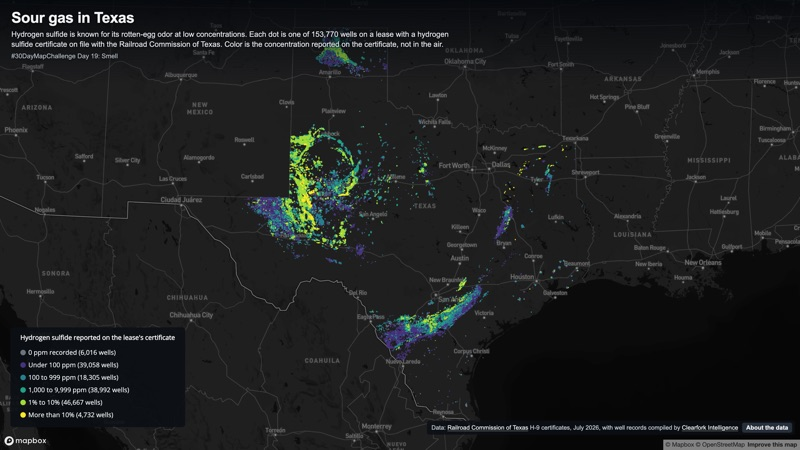
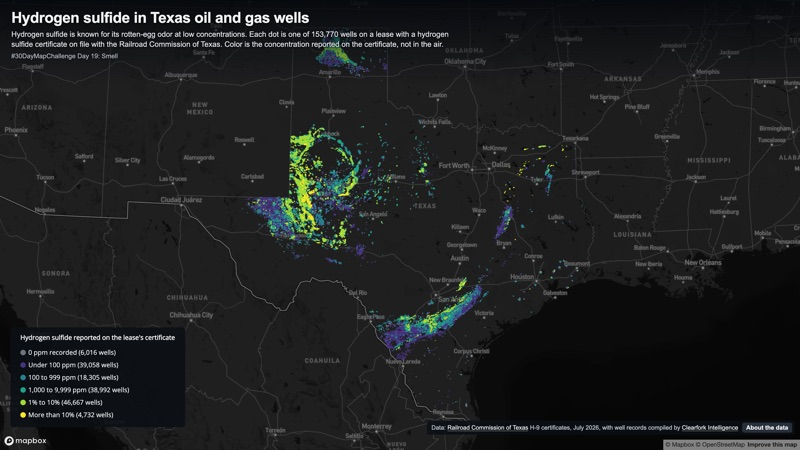
Day 19: retitle to Hydrogen sulfide in Texas oil and gas wells

Changed region(s): [[0.0, 0.0, 0.4062, 0.0622]]

diff --git a/docs/map-challenge-2026/maps/day19/index.html b/docs/map-challenge-2026/maps/day19/index.html
@@ -35,7 +35,7 @@
 <script src="lib/layers-control-2.0.0/layers-control.js"></script>
   <meta charset="utf-8"/>
   <meta name="viewport" content="width=device-width, initial-scale=1"/>
-  <title>Sour gas in Texas · #30DayMapChallenge Day 19</title>
+  <title>Hydrogen sulfide in Texas oil and gas wells · #30DayMapChallenge Day 19</title>
   <style>*{box-sizing:border-box}html,body{margin:0;width:100%;height:100%;overflow:hidden;background:#0b0f14;font-family:Arial,Helvetica,sans-serif}.html-widget{width:100%!important;height:100%!important}
 .title{position:absolute;top:18px;left:22px;z-index:5;color:#f1f3f5;pointer-events:none;text-shadow:0 1px 4px #000;max-width:min(880px,calc(100% - 60px))}
 .title h1{margin:0;font-size:30px;letter-spacing:-.5px}.title p{margin:6px 0 0;font-size:15px;line-height:1.35;color:#dfe4ea}.title p.tag{font-size:13px;color:#b4bcc6;margin-top:4px}
@@ -96,15 +96,15 @@
   <script>document.addEventListener('click',function(e){var d=document.getElementById('about');if(d&&d.open&&!d.contains(e.target))d.open=false;});
       document.addEventListener('keydown',function(e){var d=document.getElementById('about');if(e.key==='Escape'&&d&&d.open){d.open=false;d.querySelector('summary').focus();}});</script>
   <div class="title">
-    <h1>Sour gas in Texas</h1>
+    <h1>Hydrogen sulfide in Texas oil and gas wells</h1>
     <p>
       <span class="long">Hydrogen sulfide is known for its rotten-egg odor at low concentrations. Each dot is one of 153,770 wells on a lease with a hydrogen sulfide certificate on file with the Railroad Commission of Texas. Color is the concentration reported on the certificate, not in the air.</span>
       <span class="short">Wells on leases with a hydrogen sulfide certificate on file with the state, colored by the concentration reported on the certificate.</span>
     </p>
     <p class="tag">#30DayMapChallenge Day 19: Smell</p>
   </div>
-  <div id="htmlwidget-7f5b592be9417f78fac3" style="width:1600px;height:900px;" class="mapboxgl html-widget"></div>
-  <script type="application/json" data-for="htmlwidget-7f5b592be9417f78fac3">{"x":{"style":"mapbox://styles/mapbox/standard","center":[-99.59999999999999,31.3],"zoom":5.5,"bearing":0,"pitch":0,"projection":"globe","parallels":null,"access_token":"pk.eyJ1Ijoia3dhbGtlcnRjdSIsImEiOiJjbXZ6a3FnZzcwMGY3MzRvaDNwZDAzZjE1In0.3sxcPs3M7maeGtwkl8FZQQ","additional_params":{"config":{"basemap":{"lightPreset":"night","theme":"monochrome","showPointOfInterestLabels":false,"showTransitLabels":false,"showRoadLabels":false}},"minZoom":4,"maxZoom":15,"preserveDrawingBuffer":true,"fadeDuration":0,"attributionControl":{"customAttribution":"Hydrogen sulfide certificates: Railroad Commission of Texas, July 2026"},"elementId":"feature-map"},"sources":[{"id":"sour","type":"vector","url":"web/sour_wells.pmtiles"}],"layers":[{"id":"wells","type":"circle","source":"sour","source_layer":"wells","paint":{"circle-color":["match",["get","k"],1,"#6b7480",2,"#46327e",3,"#277f8e",4,"#1fa187",5,"#a0da39",6,"#fde725","#888888"],"circle-emissive-strength":1,"circle-opacity":["interpolate",["linear"],["zoom"],5,0.8,9,0.95],"circle-radius":["interpolate",["linear"],["zoom"],5,1.05,8,1.9,11,3.6,14,6.5],"circle-stroke-color":"#0b0f14","circle-stroke-width":["interpolate",["linear"],["zoom"],9,0,12,0.8],"circle-translate-anchor":"map"},"layout":{"circle-sort-key":["get","ppm"],"visibility":"visible"},"slot":null,"minzoom":null,"maxzoom":null,"popup":null,"tooltip":["concat","<b>",["get","lease"],"<\/b><br>",["get","kind"]," · ",["get","field"],"<br>Hydrogen sulfide concentration reported on the certificate: <b>",["get","ppm_text"],"<\/b>",["get","note"],"<br>Certificate approved or last amended in ",["get","year"]],"tooltip_style":null,"popup_style":null,"hover_options":{"circle_stroke_color":"#ffffff","circle_stroke_width":2},"before_id":null,"filter":null}],"legend_html":"<div id=\"leg\" class=\"mapboxgl-legend bottom-left\"><h2 class=\"mapgl-legend-title\">Hydrogen sulfide reported on the lease's certificate<\/h2><div class=\"legend-item\"><div class=\"legend-patch-container\" style=\"width:11px; height:11px;\"><span class=\"legend-color legend-shape-circle\" style=\"background-color:#6b7480; width: 11px; height: 11px; border-radius: 50%;\"><\/span><\/div><span class=\"legend-text\">0 ppm recorded  (6,016 wells)<\/span><\/div><div class=\"legend-item\"><div class=\"legend-patch-container\" style=\"width:11px; height:11px;\"><span class=\"legend-color legend-shape-circle\" style=\"background-color:#46327e; width: 11px; height: 11px; border-radius: 50%;\"><\/span><\/div><span class=\"legend-text\">Under 100 ppm  (39,058 wells)<\/span><\/div><div class=\"legend-item\"><div class=\"legend-patch-container\" style=\"width:11px; height:11px;\"><span class=\"legend-color legend-shape-circle\" style=\"background-color:#277f8e; width: 11px; height: 11px; border-radius: 50%;\"><\/span><\/div><span class=\"legend-text\">100 to 999 ppm  (18,305 wells)<\/span><\/div><div class=\"legend-item\"><div class=\"legend-patch-container\" style=\"width:11px; height:11px;\"><span class=\"legend-color legend-shape-circle\" style=\"background-color:#1fa187; width: 11px; height: 11px; border-radius: 50%;\"><\/span><\/div><span class=\"legend-text\">1,000 to 9,999 ppm  (38,992 wells)<\/span><\/div><div class=\"legend-item\"><div class=\"legend-patch-container\" style=\"width:11px; height:11px;\"><span class=\"legend-color legend-shape-circle\" style=\"background-color:#a0da39; width: 11px; height: 11px; border-radius: 50%;\"><\/span><\/div><span class=\"legend-text\">1% to 10%  (46,667 wells)<\/span><\/div><div class=\"legend-item\"><div class=\"legend-patch-container\" style=\"width:11px; height:11px;\"><span class=\"legend-color legend-shape-circle\" style=\"background-color:#fde725; width: 11px; height: 11px; border-radius: 50%;\"><\/span><\/div><span class=\"legend-text\">More than 10%  (4,732 wells)<\/span><\/div><\/div>","legend_css":"\n    @import url('https://fonts.googleapis.com/css2?family=Open+Sans&display=swap');\n    #leg h2 {\n      font-size: 14px;\n      font-family: 'Open Sans', -apple-system, BlinkMacSystemFont, 'Segoe UI', Roboto, 'Helvetica Neue', Arial, sans-serif;\n      line-height: 20px;\n      margin-bottom: 10px;\n      margin-top: 0px;\n      white-space: nowrap;\n      max-width: 100%;\n      overflow: hidden;\n      text-overflow: ellipsis;\n    }\n    #leg {\n      position: absolute;\n      border-radius: 10px;\n      margin: 10px;\n      width: 300;\n      background-color: #ffffff80;\n      padding: 10px 20px;\n      z-index: 1002;\n    }\n    #leg.top-left {\n      top: 10px;\n      left: 10px;\n    }\n    #leg.bottom-left {\n      bottom: 10px;\n      left: 10px;\n    }\n    #leg.top-right {\n      top: 10px;\n      right: 10px;\n    }\n    #leg.bottom-right {\n      bottom: 10px;\n      right: 10px;\n    }\n    #leg .legend-item {\n      display: flex;\n      align-items: center;\n      margin-bottom: 5px;\n      font-family: 'Open Sans', -apple-system, BlinkMacSystemFont, 'Segoe UI', Roboto, 'Helvetica Neue', Arial, sans-serif;\n      white-space: nowrap;\n      max-width: 100%;\n      overflow: hidden;\n    }\n    #leg .legend-patch-container {\n      display: flex;\n      justify-content: center;\n      align-items: center;\n      margin-right: 5px;\n    }\n    #leg .legend-color {\n      display: inline-block;\n      flex-shrink: 0;\n    }\n    #leg .legend-shape-line {\n      align-self: center;\n      image-rendering: pixelated;\n      image-rendering: -moz-crisp-edges;\n      image-rendering: crisp-edges;\n      transform: translateZ(0);\n      -webkit-transform: translateZ(0);\n    }\n    #leg .legend-shape-hexagon {\n      display: block;\n    }\n    #leg .legend-shape-custom {\n      display: block;\n    }\n    #leg .legend-text {\n      flex-grow: 1;\n      text-overflow: ellipsis;\n      overflow: hidden;\n    }\n  \n#leg {\n  background-color: rgba(11, 15, 20, 0.90) !important;\n  border: 0px solid gray !important;\n  border-radius: 6px !important;\n}\n#leg h2 {\n  color: #ffffff !important;\n  font-size: 13px !important;\n}\n#leg .legend-text {\n  color: #f1f3f5 !important;\n  font-size: 13px !important;\n}\n#leg .legend-labels span {\n  color: #f1f3f5 !important;\n  font-size: 13px !important;\n}\n#leg .mapgl-legend-collapse-btn {\n  color: #f1f3f5 !important;\n}\n"},"evals":[],"jsHooks":[]}</script>
+  <div id="htmlwidget-46c524e923b5a9e187c8" style="width:1600px;height:900px;" class="mapboxgl html-widget"></div>
+  <script type="application/json" data-for="htmlwidget-46c524e923b5a9e187c8">{"x":{"style":"mapbox://styles/mapbox/standard","center":[-99.59999999999999,31.3],"zoom":5.5,"bearing":0,"pitch":0,"projection":"globe","parallels":null,"access_token":"pk.eyJ1Ijoia3dhbGtlcnRjdSIsImEiOiJjbXZ6a3FnZzcwMGY3MzRvaDNwZDAzZjE1In0.3sxcPs3M7maeGtwkl8FZQQ","additional_params":{"config":{"basemap":{"lightPreset":"night","theme":"monochrome","showPointOfInterestLabels":false,"showTransitLabels":false,"showRoadLabels":false}},"minZoom":4,"maxZoom":15,"preserveDrawingBuffer":true,"fadeDuration":0,"attributionControl":{"customAttribution":"Hydrogen sulfide certificates: Railroad Commission of Texas, July 2026"},"elementId":"feature-map"},"sources":[{"id":"sour","type":"vector","url":"web/sour_wells.pmtiles"}],"layers":[{"id":"wells","type":"circle","source":"sour","source_layer":"wells","paint":{"circle-color":["match",["get","k"],1,"#6b7480",2,"#46327e",3,"#277f8e",4,"#1fa187",5,"#a0da39",6,"#fde725","#888888"],"circle-emissive-strength":1,"circle-opacity":["interpolate",["linear"],["zoom"],5,0.8,9,0.95],"circle-radius":["interpolate",["linear"],["zoom"],5,1.05,8,1.9,11,3.6,14,6.5],"circle-stroke-color":"#0b0f14","circle-stroke-width":["interpolate",["linear"],["zoom"],9,0,12,0.8],"circle-translate-anchor":"map"},"layout":{"circle-sort-key":["get","ppm"],"visibility":"visible"},"slot":null,"minzoom":null,"maxzoom":null,"popup":null,"tooltip":["concat","<b>",["get","lease"],"<\/b><br>",["get","kind"]," · ",["get","field"],"<br>Hydrogen sulfide concentration reported on the certificate: <b>",["get","ppm_text"],"<\/b>",["get","note"],"<br>Certificate approved or last amended in ",["get","year"]],"tooltip_style":null,"popup_style":null,"hover_options":{"circle_stroke_color":"#ffffff","circle_stroke_width":2},"before_id":null,"filter":null}],"legend_html":"<div id=\"leg\" class=\"mapboxgl-legend bottom-left\"><h2 class=\"mapgl-legend-title\">Hydrogen sulfide reported on the lease's certificate<\/h2><div class=\"legend-item\"><div class=\"legend-patch-container\" style=\"width:11px; height:11px;\"><span class=\"legend-color legend-shape-circle\" style=\"background-color:#6b7480; width: 11px; height: 11px; border-radius: 50%;\"><\/span><\/div><span class=\"legend-text\">0 ppm recorded  (6,016 wells)<\/span><\/div><div class=\"legend-item\"><div class=\"legend-patch-container\" style=\"width:11px; height:11px;\"><span class=\"legend-color legend-shape-circle\" style=\"background-color:#46327e; width: 11px; height: 11px; border-radius: 50%;\"><\/span><\/div><span class=\"legend-text\">Under 100 ppm  (39,058 wells)<\/span><\/div><div class=\"legend-item\"><div class=\"legend-patch-container\" style=\"width:11px; height:11px;\"><span class=\"legend-color legend-shape-circle\" style=\"background-color:#277f8e; width: 11px; height: 11px; border-radius: 50%;\"><\/span><\/div><span class=\"legend-text\">100 to 999 ppm  (18,305 wells)<\/span><\/div><div class=\"legend-item\"><div class=\"legend-patch-container\" style=\"width:11px; height:11px;\"><span class=\"legend-color legend-shape-circle\" style=\"background-color:#1fa187; width: 11px; height: 11px; border-radius: 50%;\"><\/span><\/div><span class=\"legend-text\">1,000 to 9,999 ppm  (38,992 wells)<\/span><\/div><div class=\"legend-item\"><div class=\"legend-patch-container\" style=\"width:11px; height:11px;\"><span class=\"legend-color legend-shape-circle\" style=\"background-color:#a0da39; width: 11px; height: 11px; border-radius: 50%;\"><\/span><\/div><span class=\"legend-text\">1% to 10%  (46,667 wells)<\/span><\/div><div class=\"legend-item\"><div class=\"legend-patch-container\" style=\"width:11px; height:11px;\"><span class=\"legend-color legend-shape-circle\" style=\"background-color:#fde725; width: 11px; height: 11px; border-radius: 50%;\"><\/span><\/div><span class=\"legend-text\">More than 10%  (4,732 wells)<\/span><\/div><\/div>","legend_css":"\n    @import url('https://fonts.googleapis.com/css2?family=Open+Sans&display=swap');\n    #leg h2 {\n      font-size: 14px;\n      font-family: 'Open Sans', -apple-system, BlinkMacSystemFont, 'Segoe UI', Roboto, 'Helvetica Neue', Arial, sans-serif;\n      line-height: 20px;\n      margin-bottom: 10px;\n      margin-top: 0px;\n      white-space: nowrap;\n      max-width: 100%;\n      overflow: hidden;\n      text-overflow: ellipsis;\n    }\n    #leg {\n      position: absolute;\n      border-radius: 10px;\n      margin: 10px;\n      width: 300;\n      background-color: #ffffff80;\n      padding: 10px 20px;\n      z-index: 1002;\n    }\n    #leg.top-left {\n      top: 10px;\n      left: 10px;\n    }\n    #leg.bottom-left {\n      bottom: 10px;\n      left: 10px;\n    }\n    #leg.top-right {\n      top: 10px;\n      right: 10px;\n    }\n    #leg.bottom-right {\n      bottom: 10px;\n      right: 10px;\n    }\n    #leg .legend-item {\n      display: flex;\n      align-items: center;\n      margin-bottom: 5px;\n      font-family: 'Open Sans', -apple-system, BlinkMacSystemFont, 'Segoe UI', Roboto, 'Helvetica Neue', Arial, sans-serif;\n      white-space: nowrap;\n      max-width: 100%;\n      overflow: hidden;\n    }\n    #leg .legend-patch-container {\n      display: flex;\n      justify-content: center;\n      align-items: center;\n      margin-right: 5px;\n    }\n    #leg .legend-color {\n      display: inline-block;\n      flex-shrink: 0;\n    }\n    #leg .legend-shape-line {\n      align-self: center;\n      image-rendering: pixelated;\n      image-rendering: -moz-crisp-edges;\n      image-rendering: crisp-edges;\n      transform: translateZ(0);\n      -webkit-transform: translateZ(0);\n    }\n    #leg .legend-shape-hexagon {\n      display: block;\n    }\n    #leg .legend-shape-custom {\n      display: block;\n    }\n    #leg .legend-text {\n      flex-grow: 1;\n      text-overflow: ellipsis;\n      overflow: hidden;\n    }\n  \n#leg {\n  background-color: rgba(11, 15, 20, 0.90) !important;\n  border: 0px solid gray !important;\n  border-radius: 6px !important;\n}\n#leg h2 {\n  color: #ffffff !important;\n  font-size: 13px !important;\n}\n#leg .legend-text {\n  color: #f1f3f5 !important;\n  font-size: 13px !important;\n}\n#leg .legend-labels span {\n  color: #f1f3f5 !important;\n  font-size: 13px !important;\n}\n#leg .mapgl-legend-collapse-btn {\n  color: #f1f3f5 !important;\n}\n"},"evals":[],"jsHooks":[]}</script>
 </div>
 </body>
 </html>

diff --git a/map-challenge-2026/maps/day19/index.html b/map-challenge-2026/maps/day19/index.html
@@ -35,7 +35,7 @@
 <script src="lib/layers-control-2.0.0/layers-control.js"></script>
   <meta charset="utf-8"/>
   <meta name="viewport" content="width=device-width, initial-scale=1"/>
-  <title>Sour gas in Texas · #30DayMapChallenge Day 19</title>
+  <title>Hydrogen sulfide in Texas oil and gas wells · #30DayMapChallenge Day 19</title>
   <style>*{box-sizing:border-box}html,body{margin:0;width:100%;height:100%;overflow:hidden;background:#0b0f14;font-family:Arial,Helvetica,sans-serif}.html-widget{width:100%!important;height:100%!important}
 .title{position:absolute;top:18px;left:22px;z-index:5;color:#f1f3f5;pointer-events:none;text-shadow:0 1px 4px #000;max-width:min(880px,calc(100% - 60px))}
 .title h1{margin:0;font-size:30px;letter-spacing:-.5px}.title p{margin:6px 0 0;font-size:15px;line-height:1.35;color:#dfe4ea}.title p.tag{font-size:13px;color:#b4bcc6;margin-top:4px}
@@ -96,15 +96,15 @@
   <script>document.addEventListener('click',function(e){var d=document.getElementById('about');if(d&&d.open&&!d.contains(e.target))d.open=false;});
       document.addEventListener('keydown',function(e){var d=document.getElementById('about');if(e.key==='Escape'&&d&&d.open){d.open=false;d.querySelector('summary').focus();}});</script>
   <div class="title">
-    <h1>Sour gas in Texas</h1>
+    <h1>Hydrogen sulfide in Texas oil and gas wells</h1>
     <p>
       <span class="long">Hydrogen sulfide is known for its rotten-egg odor at low concentrations. Each dot is one of 153,770 wells on a lease with a hydrogen sulfide certificate on file with the Railroad Commission of Texas. Color is the concentration reported on the certificate, not in the air.</span>
       <span class="short">Wells on leases with a hydrogen sulfide certificate on file with the state, colored by the concentration reported on the certificate.</span>
     </p>
     <p class="tag">#30DayMapChallenge Day 19: Smell</p>
   </div>
-  <div id="htmlwidget-7f5b592be9417f78fac3" style="width:1600px;height:900px;" class="mapboxgl html-widget"></div>
-  <script type="application/json" data-for="htmlwidget-7f5b592be9417f78fac3">{"x":{"style":"mapbox://styles/mapbox/standard","center":[-99.59999999999999,31.3],"zoom":5.5,"bearing":0,"pitch":0,"projection":"globe","parallels":null,"access_token":"pk.eyJ1Ijoia3dhbGtlcnRjdSIsImEiOiJjbXZ6a3FnZzcwMGY3MzRvaDNwZDAzZjE1In0.3sxcPs3M7maeGtwkl8FZQQ","additional_params":{"config":{"basemap":{"lightPreset":"night","theme":"monochrome","showPointOfInterestLabels":false,"showTransitLabels":false,"showRoadLabels":false}},"minZoom":4,"maxZoom":15,"preserveDrawingBuffer":true,"fadeDuration":0,"attributionControl":{"customAttribution":"Hydrogen sulfide certificates: Railroad Commission of Texas, July 2026"},"elementId":"feature-map"},"sources":[{"id":"sour","type":"vector","url":"web/sour_wells.pmtiles"}],"layers":[{"id":"wells","type":"circle","source":"sour","source_layer":"wells","paint":{"circle-color":["match",["get","k"],1,"#6b7480",2,"#46327e",3,"#277f8e",4,"#1fa187",5,"#a0da39",6,"#fde725","#888888"],"circle-emissive-strength":1,"circle-opacity":["interpolate",["linear"],["zoom"],5,0.8,9,0.95],"circle-radius":["interpolate",["linear"],["zoom"],5,1.05,8,1.9,11,3.6,14,6.5],"circle-stroke-color":"#0b0f14","circle-stroke-width":["interpolate",["linear"],["zoom"],9,0,12,0.8],"circle-translate-anchor":"map"},"layout":{"circle-sort-key":["get","ppm"],"visibility":"visible"},"slot":null,"minzoom":null,"maxzoom":null,"popup":null,"tooltip":["concat","<b>",["get","lease"],"<\/b><br>",["get","kind"]," · ",["get","field"],"<br>Hydrogen sulfide concentration reported on the certificate: <b>",["get","ppm_text"],"<\/b>",["get","note"],"<br>Certificate approved or last amended in ",["get","year"]],"tooltip_style":null,"popup_style":null,"hover_options":{"circle_stroke_color":"#ffffff","circle_stroke_width":2},"before_id":null,"filter":null}],"legend_html":"<div id=\"leg\" class=\"mapboxgl-legend bottom-left\"><h2 class=\"mapgl-legend-title\">Hydrogen sulfide reported on the lease's certificate<\/h2><div class=\"legend-item\"><div class=\"legend-patch-container\" style=\"width:11px; height:11px;\"><span class=\"legend-color legend-shape-circle\" style=\"background-color:#6b7480; width: 11px; height: 11px; border-radius: 50%;\"><\/span><\/div><span class=\"legend-text\">0 ppm recorded  (6,016 wells)<\/span><\/div><div class=\"legend-item\"><div class=\"legend-patch-container\" style=\"width:11px; height:11px;\"><span class=\"legend-color legend-shape-circle\" style=\"background-color:#46327e; width: 11px; height: 11px; border-radius: 50%;\"><\/span><\/div><span class=\"legend-text\">Under 100 ppm  (39,058 wells)<\/span><\/div><div class=\"legend-item\"><div class=\"legend-patch-container\" style=\"width:11px; height:11px;\"><span class=\"legend-color legend-shape-circle\" style=\"background-color:#277f8e; width: 11px; height: 11px; border-radius: 50%;\"><\/span><\/div><span class=\"legend-text\">100 to 999 ppm  (18,305 wells)<\/span><\/div><div class=\"legend-item\"><div class=\"legend-patch-container\" style=\"width:11px; height:11px;\"><span class=\"legend-color legend-shape-circle\" style=\"background-color:#1fa187; width: 11px; height: 11px; border-radius: 50%;\"><\/span><\/div><span class=\"legend-text\">1,000 to 9,999 ppm  (38,992 wells)<\/span><\/div><div class=\"legend-item\"><div class=\"legend-patch-container\" style=\"width:11px; height:11px;\"><span class=\"legend-color legend-shape-circle\" style=\"background-color:#a0da39; width: 11px; height: 11px; border-radius: 50%;\"><\/span><\/div><span class=\"legend-text\">1% to 10%  (46,667 wells)<\/span><\/div><div class=\"legend-item\"><div class=\"legend-patch-container\" style=\"width:11px; height:11px;\"><span class=\"legend-color legend-shape-circle\" style=\"background-color:#fde725; width: 11px; height: 11px; border-radius: 50%;\"><\/span><\/div><span class=\"legend-text\">More than 10%  (4,732 wells)<\/span><\/div><\/div>","legend_css":"\n    @import url('https://fonts.googleapis.com/css2?family=Open+Sans&display=swap');\n    #leg h2 {\n      font-size: 14px;\n      font-family: 'Open Sans', -apple-system, BlinkMacSystemFont, 'Segoe UI', Roboto, 'Helvetica Neue', Arial, sans-serif;\n      line-height: 20px;\n      margin-bottom: 10px;\n      margin-top: 0px;\n      white-space: nowrap;\n      max-width: 100%;\n      overflow: hidden;\n      text-overflow: ellipsis;\n    }\n    #leg {\n      position: absolute;\n      border-radius: 10px;\n      margin: 10px;\n      width: 300;\n      background-color: #ffffff80;\n      padding: 10px 20px;\n      z-index: 1002;\n    }\n    #leg.top-left {\n      top: 10px;\n      left: 10px;\n    }\n    #leg.bottom-left {\n      bottom: 10px;\n      left: 10px;\n    }\n    #leg.top-right {\n      top: 10px;\n      right: 10px;\n    }\n    #leg.bottom-right {\n      bottom: 10px;\n      right: 10px;\n    }\n    #leg .legend-item {\n      display: flex;\n      align-items: center;\n      margin-bottom: 5px;\n      font-family: 'Open Sans', -apple-system, BlinkMacSystemFont, 'Segoe UI', Roboto, 'Helvetica Neue', Arial, sans-serif;\n      white-space: nowrap;\n      max-width: 100%;\n      overflow: hidden;\n    }\n    #leg .legend-patch-container {\n      display: flex;\n      justify-content: center;\n      align-items: center;\n      margin-right: 5px;\n    }\n    #leg .legend-color {\n      display: inline-block;\n      flex-shrink: 0;\n    }\n    #leg .legend-shape-line {\n      align-self: center;\n      image-rendering: pixelated;\n      image-rendering: -moz-crisp-edges;\n      image-rendering: crisp-edges;\n      transform: translateZ(0);\n      -webkit-transform: translateZ(0);\n    }\n    #leg .legend-shape-hexagon {\n      display: block;\n    }\n    #leg .legend-shape-custom {\n      display: block;\n    }\n    #leg .legend-text {\n      flex-grow: 1;\n      text-overflow: ellipsis;\n      overflow: hidden;\n    }\n  \n#leg {\n  background-color: rgba(11, 15, 20, 0.90) !important;\n  border: 0px solid gray !important;\n  border-radius: 6px !important;\n}\n#leg h2 {\n  color: #ffffff !important;\n  font-size: 13px !important;\n}\n#leg .legend-text {\n  color: #f1f3f5 !important;\n  font-size: 13px !important;\n}\n#leg .legend-labels span {\n  color: #f1f3f5 !important;\n  font-size: 13px !important;\n}\n#leg .mapgl-legend-collapse-btn {\n  color: #f1f3f5 !important;\n}\n"},"evals":[],"jsHooks":[]}</script>
+  <div id="htmlwidget-46c524e923b5a9e187c8" style="width:1600px;height:900px;" class="mapboxgl html-widget"></div>
+  <script type="application/json" data-for="htmlwidget-46c524e923b5a9e187c8">{"x":{"style":"mapbox://styles/mapbox/standard","center":[-99.59999999999999,31.3],"zoom":5.5,"bearing":0,"pitch":0,"projection":"globe","parallels":null,"access_token":"pk.eyJ1Ijoia3dhbGtlcnRjdSIsImEiOiJjbXZ6a3FnZzcwMGY3MzRvaDNwZDAzZjE1In0.3sxcPs3M7maeGtwkl8FZQQ","additional_params":{"config":{"basemap":{"lightPreset":"night","theme":"monochrome","showPointOfInterestLabels":false,"showTransitLabels":false,"showRoadLabels":false}},"minZoom":4,"maxZoom":15,"preserveDrawingBuffer":true,"fadeDuration":0,"attributionControl":{"customAttribution":"Hydrogen sulfide certificates: Railroad Commission of Texas, July 2026"},"elementId":"feature-map"},"sources":[{"id":"sour","type":"vector","url":"web/sour_wells.pmtiles"}],"layers":[{"id":"wells","type":"circle","source":"sour","source_layer":"wells","paint":{"circle-color":["match",["get","k"],1,"#6b7480",2,"#46327e",3,"#277f8e",4,"#1fa187",5,"#a0da39",6,"#fde725","#888888"],"circle-emissive-strength":1,"circle-opacity":["interpolate",["linear"],["zoom"],5,0.8,9,0.95],"circle-radius":["interpolate",["linear"],["zoom"],5,1.05,8,1.9,11,3.6,14,6.5],"circle-stroke-color":"#0b0f14","circle-stroke-width":["interpolate",["linear"],["zoom"],9,0,12,0.8],"circle-translate-anchor":"map"},"layout":{"circle-sort-key":["get","ppm"],"visibility":"visible"},"slot":null,"minzoom":null,"maxzoom":null,"popup":null,"tooltip":["concat","<b>",["get","lease"],"<\/b><br>",["get","kind"]," · ",["get","field"],"<br>Hydrogen sulfide concentration reported on the certificate: <b>",["get","ppm_text"],"<\/b>",["get","note"],"<br>Certificate approved or last amended in ",["get","year"]],"tooltip_style":null,"popup_style":null,"hover_options":{"circle_stroke_color":"#ffffff","circle_stroke_width":2},"before_id":null,"filter":null}],"legend_html":"<div id=\"leg\" class=\"mapboxgl-legend bottom-left\"><h2 class=\"mapgl-legend-title\">Hydrogen sulfide reported on the lease's certificate<\/h2><div class=\"legend-item\"><div class=\"legend-patch-container\" style=\"width:11px; height:11px;\"><span class=\"legend-color legend-shape-circle\" style=\"background-color:#6b7480; width: 11px; height: 11px; border-radius: 50%;\"><\/span><\/div><span class=\"legend-text\">0 ppm recorded  (6,016 wells)<\/span><\/div><div class=\"legend-item\"><div class=\"legend-patch-container\" style=\"width:11px; height:11px;\"><span class=\"legend-color legend-shape-circle\" style=\"background-color:#46327e; width: 11px; height: 11px; border-radius: 50%;\"><\/span><\/div><span class=\"legend-text\">Under 100 ppm  (39,058 wells)<\/span><\/div><div class=\"legend-item\"><div class=\"legend-patch-container\" style=\"width:11px; height:11px;\"><span class=\"legend-color legend-shape-circle\" style=\"background-color:#277f8e; width: 11px; height: 11px; border-radius: 50%;\"><\/span><\/div><span class=\"legend-text\">100 to 999 ppm  (18,305 wells)<\/span><\/div><div class=\"legend-item\"><div class=\"legend-patch-container\" style=\"width:11px; height:11px;\"><span class=\"legend-color legend-shape-circle\" style=\"background-color:#1fa187; width: 11px; height: 11px; border-radius: 50%;\"><\/span><\/div><span class=\"legend-text\">1,000 to 9,999 ppm  (38,992 wells)<\/span><\/div><div class=\"legend-item\"><div class=\"legend-patch-container\" style=\"width:11px; height:11px;\"><span class=\"legend-color legend-shape-circle\" style=\"background-color:#a0da39; width: 11px; height: 11px; border-radius: 50%;\"><\/span><\/div><span class=\"legend-text\">1% to 10%  (46,667 wells)<\/span><\/div><div class=\"legend-item\"><div class=\"legend-patch-container\" style=\"width:11px; height:11px;\"><span class=\"legend-color legend-shape-circle\" style=\"background-color:#fde725; width: 11px; height: 11px; border-radius: 50%;\"><\/span><\/div><span class=\"legend-text\">More than 10%  (4,732 wells)<\/span><\/div><\/div>","legend_css":"\n    @import url('https://fonts.googleapis.com/css2?family=Open+Sans&display=swap');\n    #leg h2 {\n      font-size: 14px;\n      font-family: 'Open Sans', -apple-system, BlinkMacSystemFont, 'Segoe UI', Roboto, 'Helvetica Neue', Arial, sans-serif;\n      line-height: 20px;\n      margin-bottom: 10px;\n      margin-top: 0px;\n      white-space: nowrap;\n      max-width: 100%;\n      overflow: hidden;\n      text-overflow: ellipsis;\n    }\n    #leg {\n      position: absolute;\n      border-radius: 10px;\n      margin: 10px;\n      width: 300;\n      background-color: #ffffff80;\n      padding: 10px 20px;\n      z-index: 1002;\n    }\n    #leg.top-left {\n      top: 10px;\n      left: 10px;\n    }\n    #leg.bottom-left {\n      bottom: 10px;\n      left: 10px;\n    }\n    #leg.top-right {\n      top: 10px;\n      right: 10px;\n    }\n    #leg.bottom-right {\n      bottom: 10px;\n      right: 10px;\n    }\n    #leg .legend-item {\n      display: flex;\n      align-items: center;\n      margin-bottom: 5px;\n      font-family: 'Open Sans', -apple-system, BlinkMacSystemFont, 'Segoe UI', Roboto, 'Helvetica Neue', Arial, sans-serif;\n      white-space: nowrap;\n      max-width: 100%;\n      overflow: hidden;\n    }\n    #leg .legend-patch-container {\n      display: flex;\n      justify-content: center;\n      align-items: center;\n      margin-right: 5px;\n    }\n    #leg .legend-color {\n      display: inline-block;\n      flex-shrink: 0;\n    }\n    #leg .legend-shape-line {\n      align-self: center;\n      image-rendering: pixelated;\n      image-rendering: -moz-crisp-edges;\n      image-rendering: crisp-edges;\n      transform: translateZ(0);\n      -webkit-transform: translateZ(0);\n    }\n    #leg .legend-shape-hexagon {\n      display: block;\n    }\n    #leg .legend-shape-custom {\n      display: block;\n    }\n    #leg .legend-text {\n      flex-grow: 1;\n      text-overflow: ellipsis;\n      overflow: hidden;\n    }\n  \n#leg {\n  background-color: rgba(11, 15, 20, 0.90) !important;\n  border: 0px solid gray !important;\n  border-radius: 6px !important;\n}\n#leg h2 {\n  color: #ffffff !important;\n  font-size: 13px !important;\n}\n#leg .legend-text {\n  color: #f1f3f5 !important;\n  font-size: 13px !important;\n}\n#leg .legend-labels span {\n  color: #f1f3f5 !important;\n  font-size: 13px !important;\n}\n#leg .mapgl-legend-collapse-btn {\n  color: #f1f3f5 !important;\n}\n"},"evals":[],"jsHooks":[]}</script>
 </div>
 </body>
 </html>

diff --git a/docs/map-challenge-2026/maps/day19/lib/mapboxgl-binding-0.5.3.9000/mapboxgl.js b/docs/map-challenge-2026/maps/day19/lib/mapboxgl-binding-0.5.3.9000/mapboxgl.js
@@ -1238,6 +1238,15 @@ function tooltipStyleToClass(spec) {
   if (!spec || typeof spec !== "object") {
     return null;
   }
+  // hide_after is behavior, not appearance: keep it out of the generated
+  // class so a spec that only sets it leaves the native look untouched.
+  if (spec.hide_after != null) {
+    spec = Object.assign({}, spec);
+    delete spec.hide_after;
+    if (Object.keys(spec).length === 0) {
+      return null;
+    }
+  }
   if (!window._mapglTooltipStyleClasses) {
     window._mapglTooltipStyleClasses = {};
   }
@@ -1335,13 +1344,41 @@ function applyPopupClass(popup, spec) {
   if (popup._container && cls) {
     popup._container.classList.add(cls);
   }
+  // tooltip_style(hide_after = ) / popup_style(hide_after = ): seconds after
+  // which the tooltip or popup removes itself. A tooltip is re-added on every
+  // pointer move, so its clock restarts whenever the pointer moves.
+  const hideAfter = spec && typeof spec === "object" ? Number(spec.hide_after) : NaN;
+  popup._mapglHideAfter = hideAfter > 0 ? hideAfter : null;
+  const scheduleHide = function () {
+    if (popup._mapglHideTimer) {
+      clearTimeout(popup._mapglHideTimer);
+      popup._mapglHideTimer = null;
+    }
+    if (popup._mapglHideAfter) {
+      popup._mapglHideTimer = setTimeout(function () {
+        popup._mapglHideTimer = null;
+        popup.remove();
+      }, popup._mapglHideAfter * 1000);
+    }
+  };
   if (!popup._mapglClassHook && typeof popup.on === "function") {
     popup._mapglClassHook = true;
     popup.on("open", function () {
       if (popup._container && popup._mapglStyleClass) {
         popup._container.classList.add(popup._mapglStyleClass);
       }
+      scheduleHide();
     });
+    popup.on("close", function () {
+      if (popup._mapglHideTimer) {
+        clearTimeout(popup._mapglHideTimer);
+        popup._mapglHideTimer = null;
+      }
+    });
+  }
+  // Already on the map (a click popup is styled after addTo()): start now.
+  if (typeof popup.isOpen === "function" && popup.isOpen()) {
+    scheduleHide();
   }
 }
 

diff --git a/map-challenge-2026/maps/day19/lib/mapboxgl-binding-0.5.3.9000/mapboxgl.js b/map-challenge-2026/maps/day19/lib/mapboxgl-binding-0.5.3.9000/mapboxgl.js
@@ -1238,6 +1238,15 @@ function tooltipStyleToClass(spec) {
   if (!spec || typeof spec !== "object") {
     return null;
   }
+  // hide_after is behavior, not appearance: keep it out of the generated
+  // class so a spec that only sets it leaves the native look untouched.
+  if (spec.hide_after != null) {
+    spec = Object.assign({}, spec);
+    delete spec.hide_after;
+    if (Object.keys(spec).length === 0) {
+      return null;
+    }
+  }
   if (!window._mapglTooltipStyleClasses) {
     window._mapglTooltipStyleClasses = {};
   }
@@ -1335,13 +1344,41 @@ function applyPopupClass(popup, spec) {
   if (popup._container && cls) {
     popup._container.classList.add(cls);
   }
+  // tooltip_style(hide_after = ) / popup_style(hide_after = ): seconds after
+  // which the tooltip or popup removes itself. A tooltip is re-added on every
+  // pointer move, so its clock restarts whenever the pointer moves.
+  const hideAfter = spec && typeof spec === "object" ? Number(spec.hide_after) : NaN;
+  popup._mapglHideAfter = hideAfter > 0 ? hideAfter : null;
+  const scheduleHide = function () {
+    if (popup._mapglHideTimer) {
+      clearTimeout(popup._mapglHideTimer);
+      popup._mapglHideTimer = null;
+    }
+    if (popup._mapglHideAfter) {
+      popup._mapglHideTimer = setTimeout(function () {
+        popup._mapglHideTimer = null;
+        popup.remove();
+      }, popup._mapglHideAfter * 1000);
+    }
+  };
   if (!popup._mapglClassHook && typeof popup.on === "function") {
     popup._mapglClassHook = true;
     popup.on("open", function () {
       if (popup._container && popup._mapglStyleClass) {
         popup._container.classList.add(popup._mapglStyleClass);
       }
+      scheduleHide();
     });
+    popup.on("close", function () {
+      if (popup._mapglHideTimer) {
+        clearTimeout(popup._mapglHideTimer);
+        popup._mapglHideTimer = null;
+      }
+    });
+  }
+  // Already on the map (a click popup is styled after addTo()): start now.
+  if (typeof popup.isOpen === "function" && popup.isOpen()) {
+    scheduleHide();
   }
 }
 

diff --git a/docs/map-challenge-2026/maps/day19/lib/legend-interactivity-1.0.0/legend-interactivity.css b/docs/map-challenge-2026/maps/day19/lib/legend-interactivity-1.0.0/legend-interactivity.css
@@ -229,6 +229,21 @@
     display: block;
 }
 
+/* A legend anchored to the bottom of the map grows upward, so a button that
+   appears after the first click would push the rows out from under the
+   pointer and the next click would land on a different row. Keep the button's
+   space there from the start and only toggle whether it can be seen. */
+.mapboxgl-legend.bottom-left:not(.mapgl-legend-collapsed) > .legend-reset-btn,
+.mapboxgl-legend.bottom-right:not(.mapgl-legend-collapsed) > .legend-reset-btn {
+    display: block;
+    visibility: hidden;
+}
+
+.mapboxgl-legend.bottom-left:not(.mapgl-legend-collapsed) > .legend-reset-btn.visible,
+.mapboxgl-legend.bottom-right:not(.mapgl-legend-collapsed) > .legend-reset-btn.visible {
+    visibility: visible;
+}
+
 /* Dark theme support - detect via background color */
 .mapboxgl-legend[style*="background-color: rgb(0, 0, 0)"] .legend-range-display,
 .mapboxgl-legend[style*="background-color: #000"] .legend-range-display,

diff --git a/map-challenge-2026/maps/day19/lib/legend-interactivity-1.0.0/legend-interactivity.css b/map-challenge-2026/maps/day19/lib/legend-interactivity-1.0.0/legend-interactivity.css
@@ -229,6 +229,21 @@
     display: block;
 }
 
+/* A legend anchored to the bottom of the map grows upward, so a button that
+   appears after the first click would push the rows out from under the
+   pointer and the next click would land on a different row. Keep the button's
+   space there from the start and only toggle whether it can be seen. */
+.mapboxgl-legend.bottom-left:not(.mapgl-legend-collapsed) > .legend-reset-btn,
+.mapboxgl-legend.bottom-right:not(.mapgl-legend-collapsed) > .legend-reset-btn {
+    display: block;
+    visibility: hidden;
+}
+
+.mapboxgl-legend.bottom-left:not(.mapgl-legend-collapsed) > .legend-reset-btn.visible,
+.mapboxgl-legend.bottom-right:not(.mapgl-legend-collapsed) > .legend-reset-btn.visible {
+    visibility: visible;
+}
+
 /* Dark theme support - detect via background color */
 .mapboxgl-legend[style*="background-color: rgb(0, 0, 0)"] .legend-range-display,
 .mapboxgl-legend[style*="background-color: #000"] .legend-range-display,
